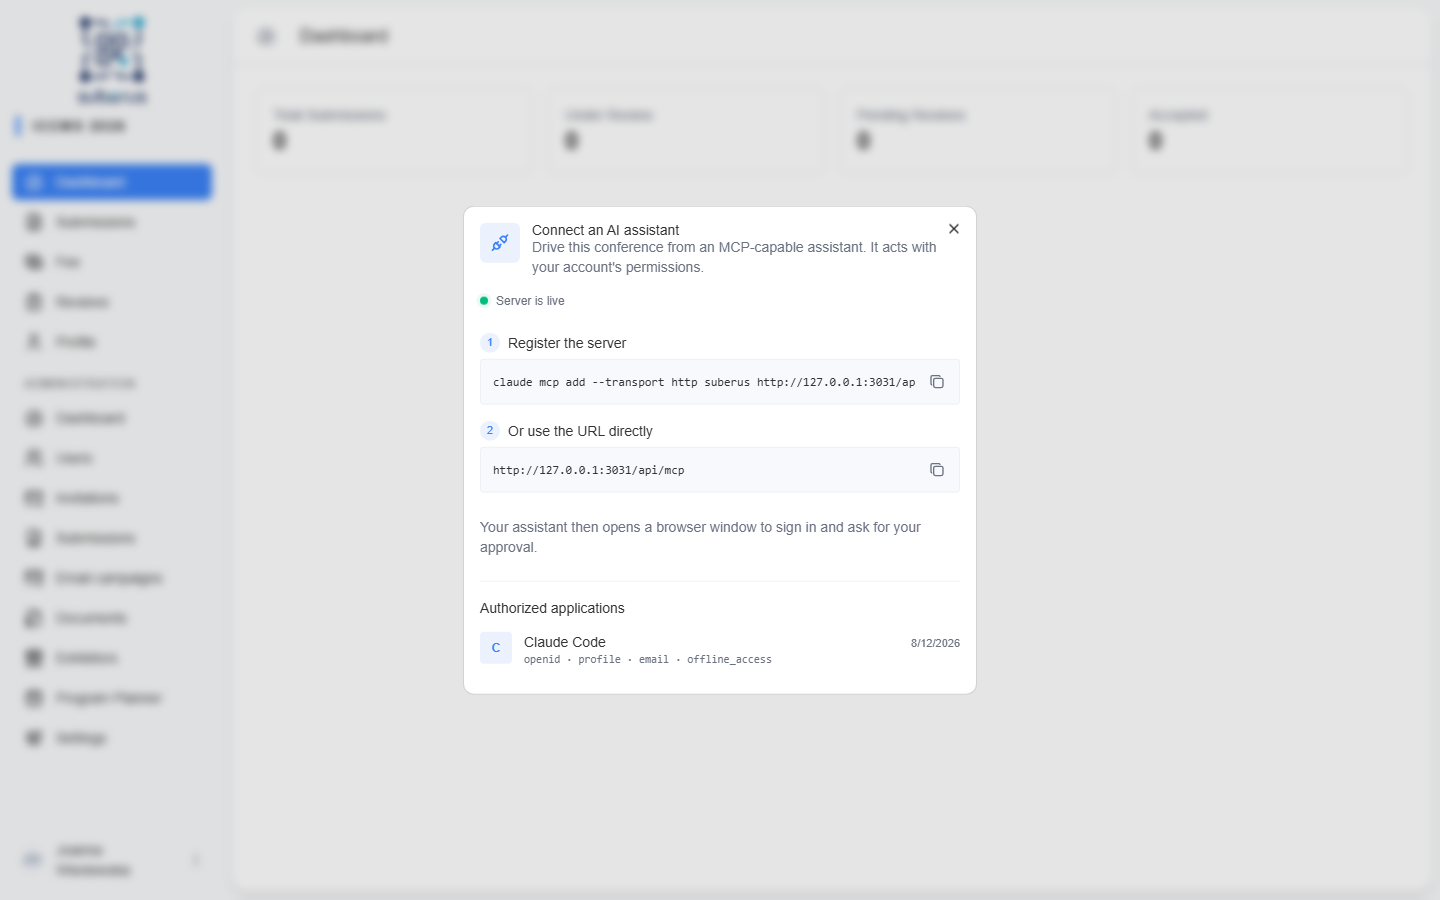
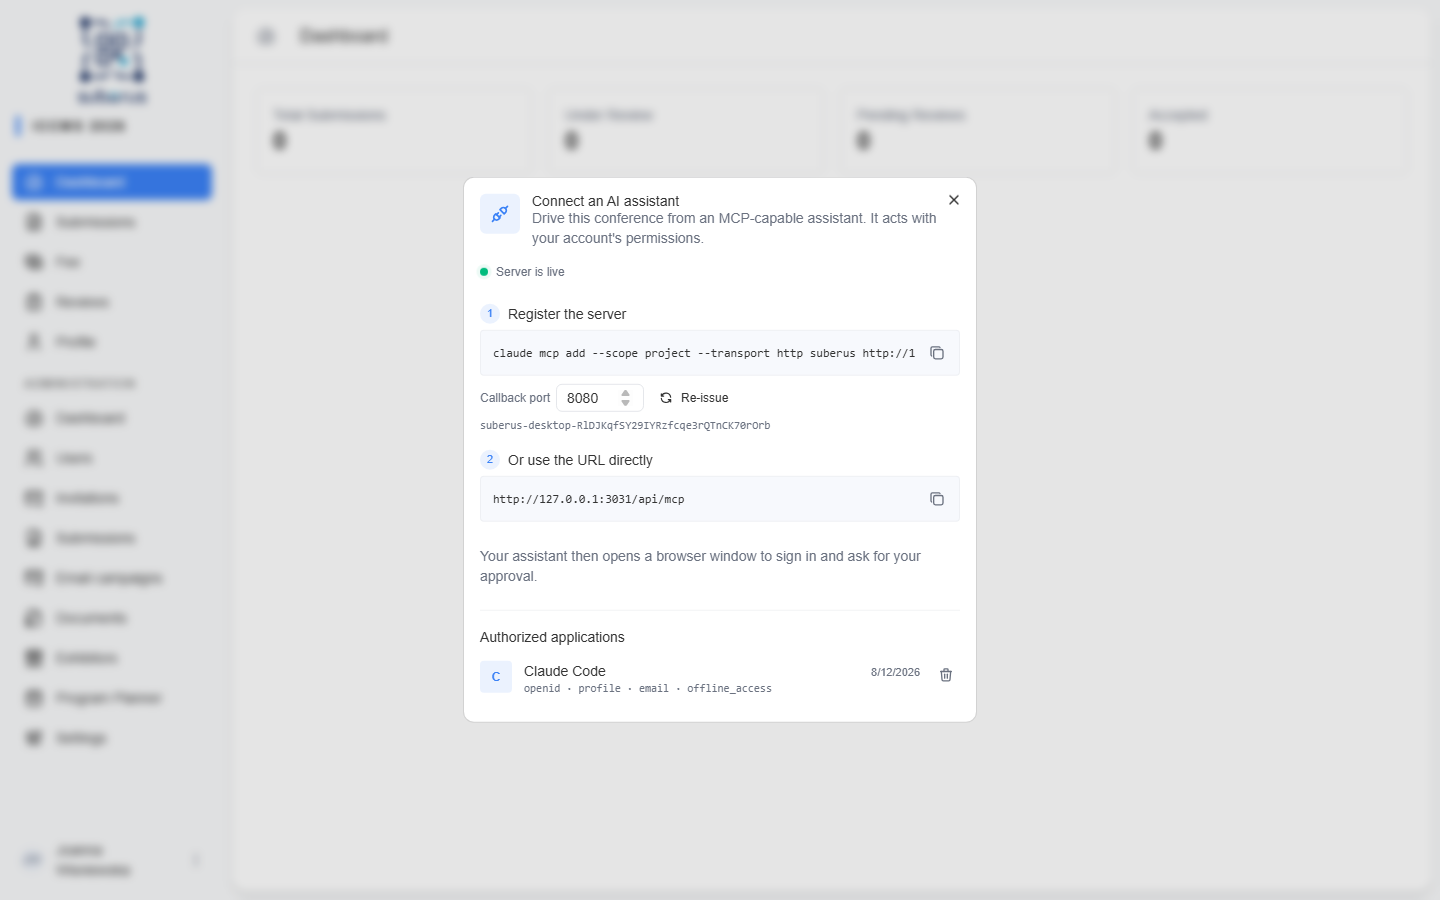
docs(mcp): recapture the connect dialog screenshot
Shows the credentials folded into the command, the port and Re-issue
controls, and the revoke action on the authorized list.

Changed region(s): [[0.3125, 0.1867, 0.6875, 0.8089]]

diff --git a/docs/SCREENSHOTS.md b/docs/SCREENSHOTS.md
@@ -105,7 +105,7 @@ Settings tabs deep-link via `?tab=<id>`.
 - [x] **55** — `managing/submissions.mdx` — *Bulk camera-ready upload — skip report toast* — `/admin/submissions` → **Upload camera-ready**
 - [x] **56** — `managing/users.mdx` — *On-behalf submission form* — `/admin/users/<id>` → **Add submission**
 - [x] **57** — `managing/users.mdx` — *Edit survey answers dialog* — `/admin/users/<id>` → Survey Responses → **Edit**
-- [x] **59** — `managing/ai-assistant.mdx` — *Connect an AI assistant dialog* (server URL, register command, assistant credentials, authorized applications) — user menu → **Connect AI assistant** — **stale:** shot predates the *Assistant credentials* panel (callback port + **Create credentials**); recapture when convenient
+- [x] **59** — `managing/ai-assistant.mdx` — *Connect an AI assistant dialog* (register command with credentials, callback port + Re-issue, authorized applications with revoke) — user menu → **Connect AI assistant**
 - [x] **60** — `managing/ai-assistant.mdx` — *Authorization screen* (application name, verified origin, requested access) — `/consent` during an assistant's OAuth flow
 
 ---
